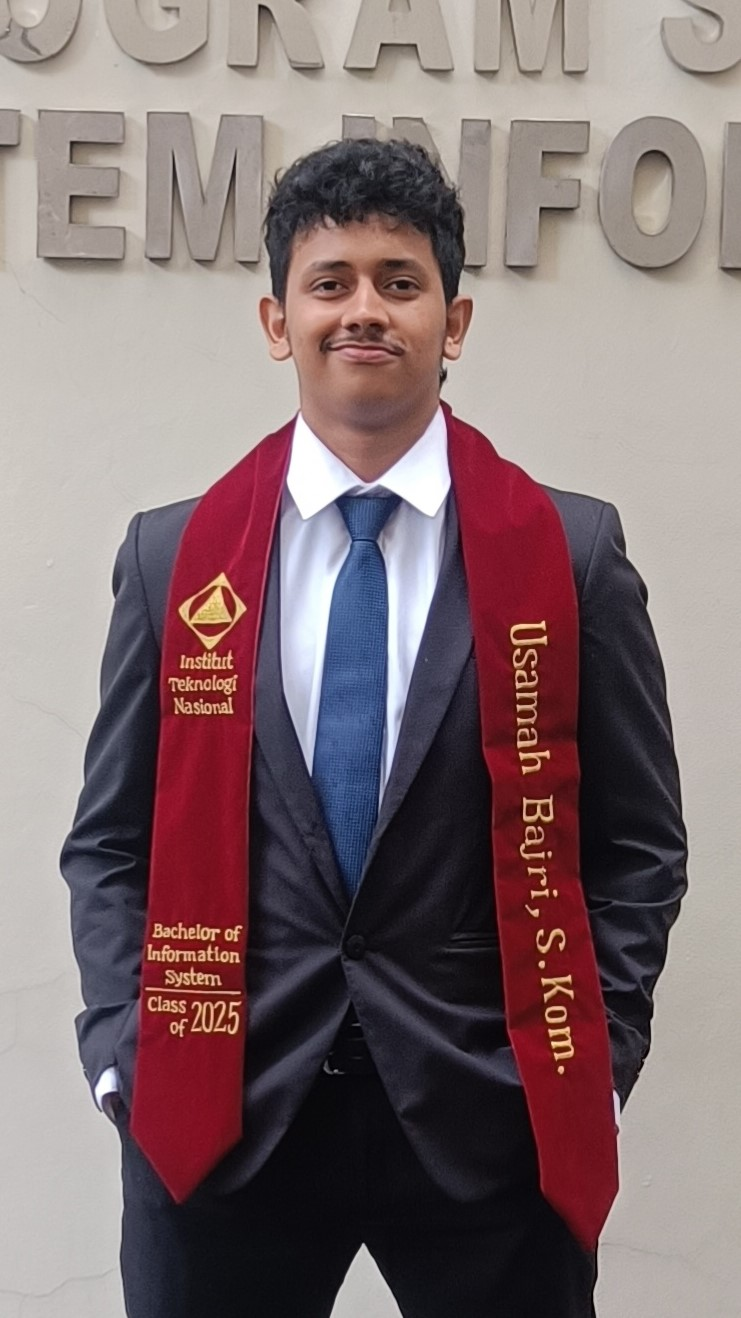
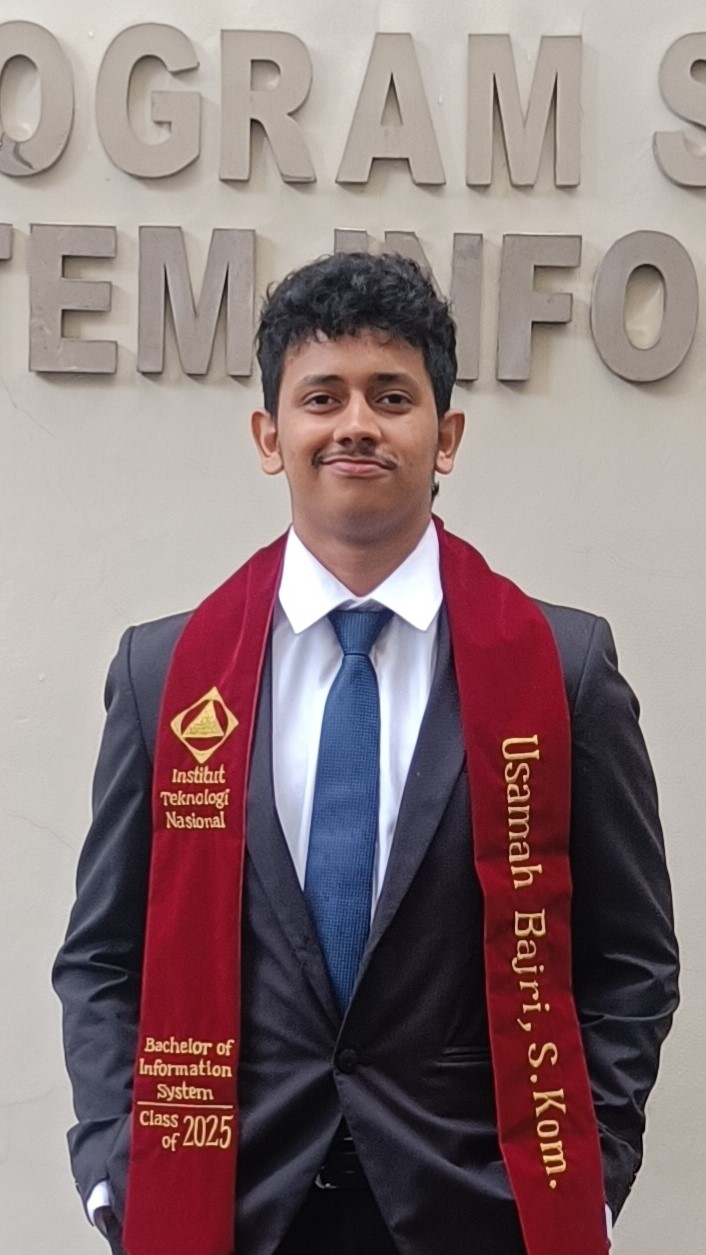
ganti lagi

diff --git a/components/Hero.tsx b/components/Hero.tsx
@@ -59,7 +59,7 @@ export default function Hero() {
                 src="/images/hero/main.jpg"
                 alt="Usamah Hasan"
                 fill
-                className="object-cover grayscale group-hover:grayscale-0 transition-all duration-700 scale-105 group-hover:scale-100"
+                className="object-top grayscale group-hover:grayscale-0 transition-all duration-700 scale-105 group-hover:scale-100"
                 priority
               />
               <div className="absolute inset-0 bg-gradient-to-t from-[#05070A] via-transparent to-transparent opacity-60"></div>
